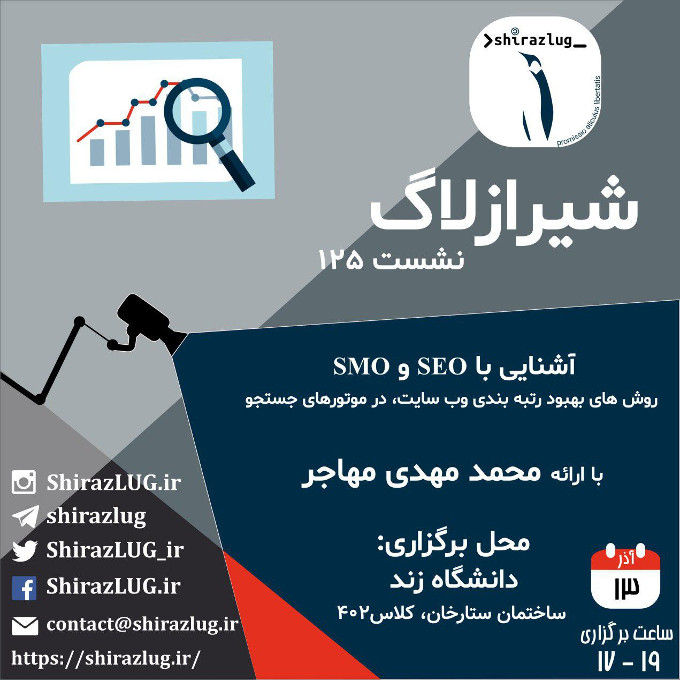
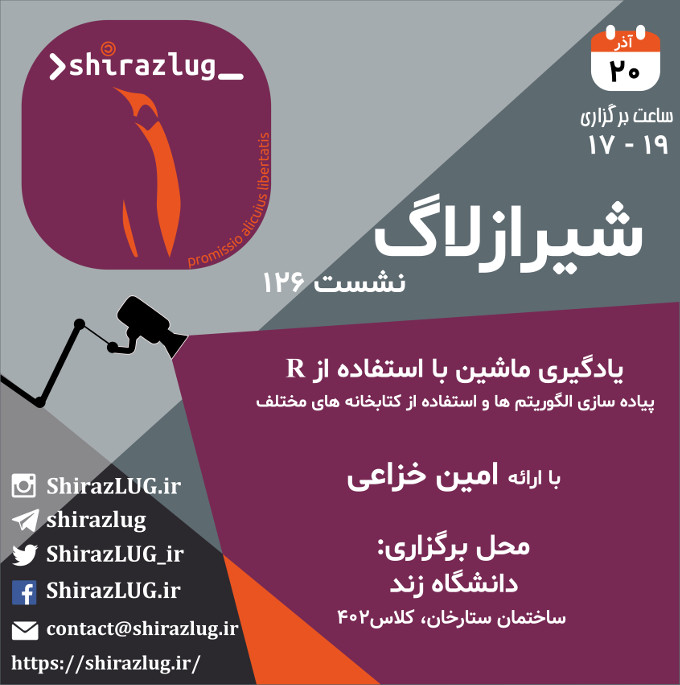
Next session Poster added

diff --git a/content/session/next_session.md b/content/session/next_session.md
@@ -5,4 +5,4 @@ description= "نشست ۱۲۶. دوشنبه ۲۰ آذر"
 weight= -1
 +++
 
-<d[![next_session](../../img/next_session.jpg)](../../img/next_session.jpg)>
+[![next_session](../../img/next_session.jpg)](../../img/next_session.jpg)
